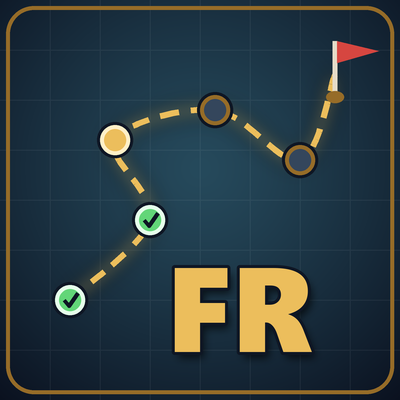
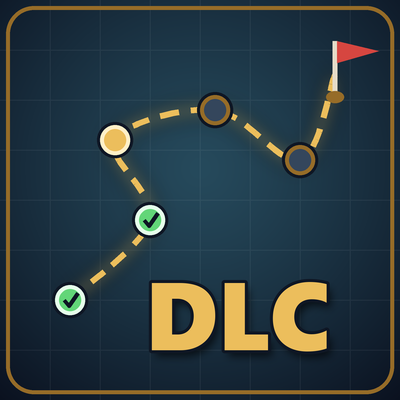
Rename to DLC - Dungeon Leveling Companion
"ForeverRoute" is already taken on CurseForge by a different addon, and
the shared folder/saved-variable names would clash. Renamed everything:

- Folder/TOC: DungeonLevelingCompanion; title "DLC - Dungeon Leveling
  Companion"; chat prefix and panel title "DLC".
- Slash commands: /dlc and /dungeonleveling (dropped /fr).
- Saved variables: DungeonLevelingCompanionDB (per character) and
  DungeonLevelingCompanionGlobalDB (account-wide); frame names to match.
- README, changelog, .pkgmeta, tests and the avatar ("DLC") updated.

Changed region(s): [[0.36, 0.66, 0.84, 0.9]]

diff --git a/tests/test_dlc.py b/tests/test_dlc.py
@@ -1,6 +1,6 @@
-"""ForeverRoute test suite: runs the addon in Lua 5.1 against a fake WoW API (secret auras in combat, quest log, achievements).
+"""DLC (Dungeon Leveling Companion) test suite: runs the addon in Lua 5.1 against a fake WoW API (secret auras in combat, quest log, achievements).
 
-Run from the addon folder:  python tests/test_forever_route.py   (needs: pip install lupa)
+Run from the addon folder:  python tests/test_dlc.py   (needs: pip install lupa)
 """
 import sys, pathlib
 from lupa.lua51 import LuaRuntime
@@ -14,7 +14,7 @@ XPT = { 400, 900, 1400, 2100, 2800, 3600, 4500, 5400, 6500, 7600, 8800, 10100, 1
 state = { level = 18, xp = 1000, rested = 0, now = 1000, t = 100000, inInstance = false, instName = nil, subzone = "",
           auras = { HELPFUL = {}, HARMFUL = {} }, combat = false, indoors = false, resting = false,
           warnings = {}, chat = {}, errors = {}, frames = {}, bag = nil, bagCdStart = 0 }
-local function secretCheck() if state.combat then error("GetAuraDataByIndex(): Auras cannot be accessed when secret while tainted by 'ForeverRoute'") end end
+local function secretCheck() if state.combat then error("GetAuraDataByIndex(): Auras cannot be accessed when secret while tainted by 'DungeonLevelingCompanion'") end end
 function GetTime() return state.now end
 function time() return state.t end
 function UnitLevel() return state.level end
@@ -131,12 +131,12 @@ end
 ns = lua.table()
 for fname in ["Data.lua", "Core.lua", "UI.lua", "Achievements.lua", "Quests.lua"]:
     code = (ADDON_DIR / fname).read_text(encoding="utf-8")
-    lua.eval(f"function(code) return assert(loadstring(code, '@{fname}')) end")(code)("ForeverRoute", ns)
+    lua.eval(f"function(code) return assert(loadstring(code, '@{fname}')) end")(code)("DungeonLevelingCompanion", ns)
 
 G = lua.globals()
 ns.alertLog = lua.table()
 run = lua.execute
-run('fire("ADDON_LOADED", "ForeverRoute"); fire("PLAYER_ENTERING_WORLD"); tick()')
+run('fire("ADDON_LOADED", "DungeonLevelingCompanion"); fire("PLAYER_ENTERING_WORLD"); tick()')
 
 def take(key):
     if key == "warnings":
@@ -184,20 +184,20 @@ run('state.combat = true; kill(100, 0); kill(200, 200); state.combat = false')  
 run('state.rested = state.rested + 900; fire("UPDATE_EXHAUSTION")')               # (tent-like rested gain) must not count
 run('kill(120, 120)')            # +120
 run('quest(1500)')               # quest XP inside -> excluded
-print("   run xp so far:", G.ForeverRouteDB.curRun.xp)
-check("run XP = kill XP minus rested minus quest", G.ForeverRouteDB.curRun.xp == 570, G.ForeverRouteDB.curRun.xp)
+print("   run xp so far:", G.DungeonLevelingCompanionDB.curRun.xp)
+check("run XP = kill XP minus rested minus quest", G.DungeonLevelingCompanionDB.curRun.xp == 570, G.DungeonLevelingCompanionDB.curRun.xp)
 
 # level-up in the middle of the run
 run('state.xp = XPT[state.level] - 100; fire("PLAYER_XP_UPDATE", "player")')   # simulate time passing outside tracking? no: counts
-before = G.ForeverRouteDB.curRun.xp
+before = G.DungeonLevelingCompanionDB.curRun.xp
 run('kill(400, 0)')
 lvl = G.state.level
-check("level-up mid-run counted correctly (+400)", G.ForeverRouteDB.curRun.xp - before == 400 and lvl == 19, (G.ForeverRouteDB.curRun.xp - before, lvl))
+check("level-up mid-run counted correctly (+400)", G.DungeonLevelingCompanionDB.curRun.xp - before == 400 and lvl == 19, (G.DungeonLevelingCompanionDB.curRun.xp - before, lvl))
 # level/XP updating out of order on level-up
-before = G.ForeverRouteDB.curRun.xp
+before = G.DungeonLevelingCompanionDB.curRun.xp
 run('state.xp = state.xp + 50; local oldlvl = state.level; fire("PLAYER_XP_UPDATE", "player")')
 run('state.xp = XPT[state.level] + 10 - 0')  # bogus intermediate not fired
-check("normal +50", G.ForeverRouteDB.curRun.xp - before == 50, G.ForeverRouteDB.curRun.xp - before)
+check("normal +50", G.DungeonLevelingCompanionDB.curRun.xp - before == 50, G.DungeonLevelingCompanionDB.curRun.xp - before)
 
 # leave + finish run -> logged
 run('state.xp = 100; fire("PLAYER_XP_UPDATE", "player")')
@@ -205,7 +205,7 @@ take("chat")
 run('state.t = state.t + 2400; state.inInstance = false; state.instName = nil; fire("ZONE_CHANGED_NEW_AREA"); state.t = state.t + 400; tick()')
 logged = take("chat")
 check("run logged on leaving", any("Logged The Deadmines run" in m for m in logged), logged[:1])
-print("   measured dm:", list(G.ForeverRouteDB.measured.dm.values()))
+print("   measured dm:", list(G.DungeonLevelingCompanionDB.measured.dm.values()))
 
 # --- 3. Warnings: outdoors / rest area / dungeon ---
 run('state.level = 22; state.xp = 0; state.rested = 0; state.auras.HARMFUL = {}; state.now = state.now + 500; state.resting = true; tick()')
@@ -221,7 +221,7 @@ w = take("warnings")
 check("food warning after combat once auras readable", any("Well Fed" in x for x in w), w)
 
 # --- 4. Achievements ---
-run('ForeverRouteDB.achIDs = nil'); ok = ns.ScanAchievements()
+run('DungeonLevelingCompanionDB.achIDs = nil'); ok = ns.ScanAchievements()
 check("achievements read", ok and ns.TierProgress("Novice")[0] == 6, ns.TierProgress("Novice"))
 run('state.combat = true; fire("CRITERIA_UPDATE"); tick(); tick()')
 check("achievement rescan deferred in combat, no errors", not take("errors"))
@@ -268,10 +268,10 @@ check("prereq chain part turned in -> dungeon quest still listed (final part not
 run('table.insert(state.questLog, { title = "The Defias Brotherhood", id = 166, complete = false })'); qlog()
 check("final part (166) picked up -> shown yellow (in log)", any("Defias Brotherhood" in l and "cffffff00" in l for l in panel_quests()))
 # quest finished before install: learned ID + flagged -> hidden on its own
-run('ForeverRouteDB.questIDs["collectingmemories"] = 168; state.flagged[168] = true'); qlog()
+run('DungeonLevelingCompanionDB.questIDs["collectingmemories"] = 168; state.flagged[168] = true'); qlog()
 check("flagged-completed (learned id) hidden", not any("Collecting Memories" in l for l in panel_quests()))
 # manual qdone
-run('SlashCmdList.FOREVERROUTE("qdone underground")'); take("chat")
+run('SlashCmdList.DUNGEONLEVELINGCOMPANION("qdone underground")'); take("chat")
 check("/fr qdone hides quest", not any("Underground Assault" in l for l in panel_quests()))
 # paladin-only quest
 run('state.level = 21'); 
@@ -282,12 +282,12 @@ run('state.class = "HUNTER"')
 # combat safety
 run('state.combat = true; fire("QUEST_LOG_UPDATE"); tick()'); ns.Refresh(); run('state.combat = false')
 check("no errors from quest tracking", not take("errors"))
-run('SlashCmdList.FOREVERROUTE("quests dm")'); print("\n".join(take("chat")))
+run('SlashCmdList.DUNGEONLEVELINGCOMPANION("quests dm")'); print("\n".join(take("chat")))
 print("\nFAILURES:", fails)
 
 # --- 7. Prerequisite steps + swap timing ---
-run('SlashCmdList.FOREVERROUTE("reset confirm"); state.questLog = {}; state.flagged = {}; ForeverRouteDB.questDone = {}; ForeverRouteDB.questIDs = {}')
-run('ForeverRouteDB.achDone = {}'); take("chat")
+run('SlashCmdList.DUNGEONLEVELINGCOMPANION("reset confirm"); state.questLog = {}; state.flagged = {}; DungeonLevelingCompanionDB.questDone = {}; DungeonLevelingCompanionDB.questIDs = {}')
+run('DungeonLevelingCompanionDB.achDone = {}'); take("chat")
 run('state.level = 15; state.xp = 0'); qlog()
 def panel(): ns.Refresh(); return G.state.lastText.split("\n")
 p = panel()
@@ -298,7 +298,7 @@ run('state.flagged[0] = false')
 run('state.questLog = { { title = "Old Ironforge Incursion", id = 9100, complete = false } }'); qlog()
 check("unlock in log -> Nip 'Em step done", not any("Nip 'Em in the Bud" in l for l in panel()))
 # level 16 in HoT leg: next = Deadmines prep should show (lvl >= 17-2)
-run('state.level = 16; state.xp = 0; ForeverRouteDB.runs.hot = 2'); qlog()
+run('state.level = 16; state.xp = 0; DungeonLevelingCompanionDB.runs.hot = 2'); qlog()
 p = panel(); print("\n".join(p[:12]))
 check("Prep for The Deadmines shown near swap", any("Prep for The Deadmines" in l for l in p))
 check("Defias chain step shows part 1/6", any("The Defias Brotherhood" in l and "1/6" not in l for l in p) or True)
@@ -319,14 +319,14 @@ run('for _, id in ipairs({135,141,142,155}) do state.flagged[id] = true end; sta
 p = panel()
 check("chain done -> DM prep disappears", not any("Prep for The Deadmines" in l and "Defias" in l for l in p) and not any("(part" in l for l in p))
 # Excavation: unlock by Horrors in the Highland in log completes 3 Rethiel steps
-run('state.level = 26; state.xp = 0; ForeverRouteDB.runs.rfk = 1; state.questLog = { { title = "Horrors in the Highland", id = 9200, complete = false } }'); qlog()
+run('state.level = 26; state.xp = 0; DungeonLevelingCompanionDB.runs.rfk = 1; state.questLog = { { title = "Horrors in the Highland", id = 9200, complete = false } }'); qlog()
 steps = [s.step.q for s in ns.PrepOpen(ns.BY_KEY.exc).values()]
 check("Excavation: Rethiel prereqs done when Horrors in the Highland is in log", steps == ["Young Crocolisk Skins"], steps)
 # manual qdone of a prep step
-run('SlashCmdList.FOREVERROUTE("qdone young croc")'); take("chat")
+run('SlashCmdList.DUNGEONLEVELINGCOMPANION("qdone young croc")'); take("chat")
 check("/fr qdone marks a prep step done", len(list(ns.PrepOpen(ns.BY_KEY.exc).values())) == 0)
 # /fr prep output
-run('SlashCmdList.FOREVERROUTE("prep st")'); out = take("chat"); print("\n".join(out[:4]))
+run('SlashCmdList.DUNGEONLEVELINGCOMPANION("prep st")'); out = take("chat"); print("\n".join(out[:4]))
 check("/fr prep lists steps", any("Sunken Temple prerequisites" in l for l in out))
 # optional steps excluded from XP
 xp_st, _ = ns.PrepLeft(ns.BY_KEY.st); xp_zf, _ = ns.PrepLeft(ns.BY_KEY.zf)
@@ -335,20 +335,20 @@ check("no errors", not take("errors"))
 print("\nFAILURES:", fails)
 
 # --- 8. Finished quests don't count toward run XP ---
-run('SlashCmdList.FOREVERROUTE("reset confirm"); state.questLog = {}; state.flagged = {}; ForeverRouteDB.questDone = {}; ForeverRouteDB.questIDs = {}'); take("chat")
+run('SlashCmdList.DUNGEONLEVELINGCOMPANION("reset confirm"); state.questLog = {}; state.flagged = {}; DungeonLevelingCompanionDB.questDone = {}; DungeonLevelingCompanionDB.questIDs = {}'); take("chat")
 run('state.level = 22; state.xp = 0'); qlog()
 bfd = ns.BY_KEY.bfd
 q_all = ns.QuestXP(bfd); n_all = ns.QuestsLeft(bfd)
 run('state.flagged[971] = true; state.flagged[1275] = true'); qlog()
 q_two = ns.QuestXP(bfd); n_two = ns.QuestsLeft(bfd)
 check("2 of 4 BFD quests done -> half the quest XP", n_all == 4 and n_two == 2 and abs(q_two - q_all / 2) < 1, (n_all, n_two, q_all, q_two))
-run('SlashCmdList.FOREVERROUTE("qdone twilight falls"); SlashCmdList.FOREVERROUTE("qdone villainy")'); take("chat")
+run('SlashCmdList.DUNGEONLEVELINGCOMPANION("qdone twilight falls"); SlashCmdList.DUNGEONLEVELINGCOMPANION("qdone villainy")'); take("chat")
 check("all quests done -> 0 quest XP", ns.QuestXP(bfd) == 0 and ns.QuestsLeft(bfd) == 0, ns.QuestXP(bfd))
-run('ForeverRouteDB.runs.bfd = 1; state.flagged[1199] = nil'); run('ForeverRouteDB.questDone["twilightfalls"] = nil'); qlog()
+run('DungeonLevelingCompanionDB.runs.bfd = 1; state.flagged[1199] = nil'); run('DungeonLevelingCompanionDB.questDone["twilightfalls"] = nil'); qlog()
 check("quest left after first run still counts on the next run", ns.QuestsLeft(bfd) == 1 and ns.QuestXP(bfd) > 0)
 
 # --- 9. Horde route ---
-run('state.faction = "Horde"; SlashCmdList.FOREVERROUTE("faction auto")'); out = take("chat")
+run('state.faction = "Horde"; SlashCmdList.DUNGEONLEVELINGCOMPANION("faction auto")'); out = take("chat")
 check("faction auto -> Horde route", any("Horde route" in l for l in out), out)
 keys = [d.key for d in ns.ROUTE.values()]
 check("Horde route starts RFC, Ruins, WC; no HoT/Stockade", keys[:3] == ["rfc", "rol", "wc"] and "hot" not in keys and "stocks" not in keys, keys[:6])
@@ -363,18 +363,18 @@ check("Horde WC prereqs include The Forgotten Pools chain", d.key == "wc" and "T
 run('state.questLog = { { title = "Leaders of the Fang", id = 1, complete = false } }'); qlog()
 steps = [s.step.q for s in ns.PrepOpen(ns.BY_KEY.wc).values()]
 check("Leaders of the Fang in log -> Forgotten Pools chain done", steps == ["Raptor Horns"], steps)
-run('ForeverRouteDB.achIDs = nil'); ns.ScanAchievements()
-check("achievement 'RFC or Hall of Thanes' maps to rfc for Horde", G.ForeverRouteDB.achDone.rfc == True, list(G.ForeverRouteDB.achDone.keys()))
+run('DungeonLevelingCompanionDB.achIDs = nil'); ns.ScanAchievements()
+check("achievement 'RFC or Hall of Thanes' maps to rfc for Horde", G.DungeonLevelingCompanionDB.achDone.rfc == True, list(G.DungeonLevelingCompanionDB.achDone.keys()))
 check("Horde Novice 6/6 from achievement", ns.TierProgress("Novice")[0] == 6, ns.TierProgress("Novice"))
-run('SlashCmdList.FOREVERROUTE("route")'); out = take("chat"); print("\n".join(out[:5]))
-run('state.faction = "Alliance"; SlashCmdList.FOREVERROUTE("faction auto")'); take("chat")
+run('SlashCmdList.DUNGEONLEVELINGCOMPANION("route")'); out = take("chat"); print("\n".join(out[:5]))
+run('state.faction = "Alliance"; SlashCmdList.DUNGEONLEVELINGCOMPANION("faction auto")'); take("chat")
 check("back to Alliance route", ns.ROUTE[1].key == "hot")
 check("no errors", not take("errors"))
 print("\nFAILURES:", fails)
 
 # --- 10. Same-name chain without IDs (Horde Hidden Enemies) ---
-run('state.faction = "Horde"; SlashCmdList.FOREVERROUTE("faction auto"); SlashCmdList.FOREVERROUTE("reset confirm")'); take("chat")
-run('state.questLog = {}; state.flagged = {}; ForeverRouteDB.questDone = {}; ForeverRouteDB.turnedIn = {}; ForeverRouteDB.idKey = {}; ForeverRouteDB.achDone = {}')
+run('state.faction = "Horde"; SlashCmdList.DUNGEONLEVELINGCOMPANION("faction auto"); SlashCmdList.DUNGEONLEVELINGCOMPANION("reset confirm")'); take("chat")
+run('state.questLog = {}; state.flagged = {}; DungeonLevelingCompanionDB.questDone = {}; DungeonLevelingCompanionDB.turnedIn = {}; DungeonLevelingCompanionDB.idKey = {}; DungeonLevelingCompanionDB.achDone = {}')
 run('state.level = 13; state.xp = 0'); qlog()
 def rfc_steps(): return [(s.step.part, s.status) for s in ns.PrepSteps(ns.BY_KEY.rfc).values()]
 check("Hidden Enemies: both parts to do", rfc_steps() == [(1, "todo"), (2, "todo")], rfc_steps())
@@ -392,7 +392,7 @@ run('state.questLog = { { title = "Hidden Enemies", id = 5728, complete = false 
 check("RFC part in log shown as dungeon quest (yellow)", any(q.name == "Hidden Enemies" and q.inLog for q in ns.DungeonQuests(ns.BY_KEY.rfc).values()))
 run('state.questLog = {}; fire("QUEST_TURNED_IN", 5728, 900, 0)'); qlog()
 check("after the RFC part, dungeon quest finished", not any(q.name == "Hidden Enemies" for q in ns.DungeonQuests(ns.BY_KEY.rfc).values()))
-run('state.faction = "Alliance"; SlashCmdList.FOREVERROUTE("faction auto")'); take("chat")
+run('state.faction = "Alliance"; SlashCmdList.DUNGEONLEVELINGCOMPANION("faction auto")'); take("chat")
 check("no errors", not take("errors"))
 print("\nFAILURES:", fails)
 
@@ -410,14 +410,14 @@ run('fire("UNIT_AURA", "player"); state.now = state.now + 0.5'); ns.Refresh()
 check("player UNIT_AURA -> one rescan", G.state.scans > 0)
 fs = ns.FoodStatus(); fs = fs if isinstance(fs, str) else fs[0]
 check("food still detected (only Well Fed tooltip read)", fs == "xp", fs)
-run('SlashCmdList.FOREVERROUTE("perf")'); out = take("chat"); print("\n".join(out))
+run('SlashCmdList.DUNGEONLEVELINGCOMPANION("perf")'); out = take("chat"); print("\n".join(out))
 check("/fr perf reports", any("ms each" in l for l in out))
 check("no errors", not take("errors"))
 print("\nFAILURES:", fails)
 
 # --- 12. Taint safety: no Blizzard raid-warning frame, no alerts at low level / in cinematics ---
 run('state.raidNoticeCalls = 0; RaidNotice_AddMessage = function() state.raidNoticeCalls = state.raidNoticeCalls + 1 end')
-run('SlashCmdList.FOREVERROUTE("set food on"); SlashCmdList.FOREVERROUTE("set tentwarn on")'); take("chat")
+run('SlashCmdList.DUNGEONLEVELINGCOMPANION("set food on"); SlashCmdList.DUNGEONLEVELINGCOMPANION("set tentwarn on")'); take("chat")
 run('state.auras.HELPFUL = {}; state.auras.HARMFUL = {}; state.rested = 0; state.indoors = false; state.resting = false; state.combat = false')
 run('state.level = 1; state.xp = 0; state.now = state.now + 1000; tick()')
 check("level 1: no alerts", not take("warnings"))
@@ -429,10 +429,10 @@ run('state.uiVisible = true; state.now = state.now + 1000; tick()')
 w = take("warnings")
 check("level 20, normal UI: alerts fire", any("Well Fed" in x for x in w), w)
 check("Blizzard RaidNotice_AddMessage never called", G.state.raidNoticeCalls == 0, G.state.raidNoticeCalls)
-run('SlashCmdList.FOREVERROUTE("set minlevel 25")'); take("chat")
+run('SlashCmdList.DUNGEONLEVELINGCOMPANION("set minlevel 25")'); take("chat")
 run('state.now = state.now + 1000; tick()')
 check("/fr set minlevel 25 -> no alerts at 20", not take("warnings"))
-run('SlashCmdList.FOREVERROUTE("set minlevel 10")'); take("chat")
+run('SlashCmdList.DUNGEONLEVELINGCOMPANION("set minlevel 10")'); take("chat")
 # data-only tooltip API path
 run('state.tipFrames = 0; local cf = CreateFrame; CreateFrame = function(kind, ...) if kind == "GameTooltip" then state.tipFrames = state.tipFrames + 1 end return cf(kind, ...) end')
 run('C_TooltipInfo = { GetUnitAura = function(unit, i, filter) local a = state.auras[filter][i] return a and { lines = { { leftText = a.name }, { leftText = a.tip } } } end }')
@@ -445,18 +445,18 @@ check("no errors", not take("errors"))
 print("\nFAILURES:", fails)
 
 # --- 13. Account-wide alert start level (default 4) ---
-run('ForeverRouteGlobalDB = nil; ns_init = 1'); ns.InitDB(); take("chat")
-check("default alert start level is 6", G.ForeverRouteGlobalDB.warnMinLevel == 6, G.ForeverRouteGlobalDB.warnMinLevel)
+run('DungeonLevelingCompanionGlobalDB = nil; ns_init = 1'); ns.InitDB(); take("chat")
+check("default alert start level is 6", G.DungeonLevelingCompanionGlobalDB.warnMinLevel == 6, G.DungeonLevelingCompanionGlobalDB.warnMinLevel)
 run('state.auras.HELPFUL = {}; state.auras.HARMFUL = {}; state.combat = false; state.level = 5; state.now = state.now + 1000; tick()')
 check("level 5: no alerts", not take("warnings"))
 run('state.level = 6; state.now = state.now + 1000; tick()')
 check("level 6: alerts start", len(take("warnings")) > 0)
-run('SlashCmdList.FOREVERROUTE("set minlevel 8")'); out = take("chat")
+run('SlashCmdList.DUNGEONLEVELINGCOMPANION("set minlevel 8")'); out = take("chat")
 check("/fr set minlevel says all characters", any("all your characters" in l for l in out), out)
 # "log in" a different character: per-character data is new, account-wide setting stays
-run('ForeverRouteDB = nil'); ns.InitDB()
-check("new character keeps account-wide minlevel 8", G.ForeverRouteGlobalDB.warnMinLevel == 8 and G.ForeverRouteDB.runs is not None and len(list(G.ForeverRouteDB.runs.keys())) == 0)
-check("per-character settings don't carry warnMinLevel", G.ForeverRouteDB.settings.warnMinLevel is None)
+run('DungeonLevelingCompanionDB = nil'); ns.InitDB()
+check("new character keeps account-wide minlevel 8", G.DungeonLevelingCompanionGlobalDB.warnMinLevel == 8 and G.DungeonLevelingCompanionDB.runs is not None and len(list(G.DungeonLevelingCompanionDB.runs.keys())) == 0)
+check("per-character settings don't carry warnMinLevel", G.DungeonLevelingCompanionDB.settings.warnMinLevel is None)
 run('state.level = 6; state.now = state.now + 1000; tick()')
 check("level 6 with minlevel 8: no alerts", not take("warnings"))
 check("no errors", not take("errors"))

diff --git a/media/make_avatar.py b/media/make_avatar.py
@@ -1,7 +1,7 @@
-"""Draws the ForeverRoute CurseForge avatar (400x400 PNG, original art).
+"""Draws the DLC (Dungeon Leveling Companion) CurseForge avatar (400x400 PNG, original art).
 
 A winding dashed route through dungeon stops on a dark map background, ending at a flag,
-with "FR" below. Rendered at 4x and scaled down for smooth edges.
+with "DLC" below. Rendered at 4x and scaled down for smooth edges.
 
     python media/make_avatar.py        (needs: pip install pillow)
 """
@@ -107,12 +107,12 @@ d.line([(fx, fy + 22 * S), (fx, fy - 34 * S)], fill=(230, 220, 200), width=5 * S
 d.polygon([(fx + 2 * S, fy - 34 * S), (fx + 44 * S, fy - 24 * S), (fx + 2 * S, fy - 12 * S)], fill=(214, 70, 64))
 d.ellipse([fx - 9 * S, fy + 16 * S, fx + 9 * S, fy + 28 * S], fill=GOLD_DARK)
 
-# "FR" monogram.
-font = ImageFont.truetype(r"C:\Windows\Fonts\seguibl.ttf", 120 * S)
-text = "FR"
+# "DLC" monogram.
+font = ImageFont.truetype(r"C:\Windows\Fonts\seguibl.ttf", 96 * S)
+text = "DLC"
 bbox = d.textbbox((0, 0), text, font=font)
 tw, th = bbox[2] - bbox[0], bbox[3] - bbox[1]
-tx, ty = (W - tw) // 2 - bbox[0] + 40 * S, 268 * S - bbox[1]
+tx, ty = (W - tw) // 2 - bbox[0] + 38 * S, 282 * S - bbox[1]
 shadow = Image.new("RGBA", (W, W), (0, 0, 0, 0))
 ImageDraw.Draw(shadow).text((tx + 4 * S, ty + 6 * S), text, font=font, fill=(0, 0, 0, 170))
 img = Image.alpha_composite(img, shadow.filter(ImageFilter.GaussianBlur(4 * S)))

diff --git a/README.md b/README.md
@@ -1,8 +1,8 @@
-# ForeverRoute – Dungeon Leveling Companion for WoW Forever
+# DLC – Dungeon Leveling Companion
 
-**Level 14–60 through dungeons, with a plan.** ForeverRoute tells your group which dungeon to run at your level, how many more runs until you swap, which quests and prerequisite chains to grab first, and reminds you to keep your XP buffs up.
+**Level 14–60 through dungeons, with a plan.** DLC tells your group which dungeon to run at your level, how many more runs until you swap, which quests and prerequisite chains to grab first, and reminds you to keep your XP buffs up.
 
-Built for WoW Forever's dungeon-leveling meta: the new Forever dungeons, the Spelunker achievements, cooked-food XP, Leatherworking camp tents and the Cozy Sleeping Bag.
+Built for **WoW Forever**'s dungeon-leveling meta: the new Forever dungeons, the Spelunker achievements, cooked-food XP, Leatherworking camp tents and the Cozy Sleeping Bag.
 
 ---
 
@@ -33,7 +33,7 @@ Built for WoW Forever's dungeon-leveling meta: the new Forever dungeons, the Spe
 - **Food:** warns when your Well Fed XP buff is missing, about to expire, or from food without the XP bonus.
 - **Camp tent:** warns when the Boosted Rest cooldown is over — only when you can actually camp (outdoors, outside dungeons, cities and inns) and right after you leave a dungeon.
 - **Cozy Sleeping Bag:** warns when Well-Rested is gone and the bag is off cooldown.
-- No alerts in combat, during cinematics, or below level 6 (configurable once for your whole account with `/fr set minlevel`).
+- No alerts in combat, during cinematics, or below level 6 (configurable once for your whole account with `/dlc set minlevel`).
 
 ---
 
@@ -41,21 +41,21 @@ Built for WoW Forever's dungeon-leveling meta: the new Forever dungeons, the Spe
 
 | Command | What it does |
 |---|---|
-| `/fr` | Show/hide the panel |
-| `/fr route` | Full route with runs done |
-| `/fr quests [dungeon]` | Quests for the current (or named) dungeon |
-| `/fr prep [dungeon]` | Prerequisite quest steps, with what to do |
-| `/fr qdone <quest>` / `/fr qundo <quest>` | Mark a quest or step finished (or not) by hand |
-| `/fr run <dungeon>` / `/fr xp <dungeon> <amount>` | Log a run by hand |
-| `/fr undo` | Remove the last logged run |
-| `/fr ach` | What was read from the Spelunker achievements |
-| `/fr set food\|tentwarn\|tent\|bag on\|off` | Turn alerts / tent estimates on or off |
-| `/fr set calib <n\|auto>` | Force an XP calibration factor |
-| `/fr set minlevel <level>` | Level the alerts start at (default 6; applies to all your characters) |
-| `/fr faction horde\|alliance\|auto` | Pick the route |
-| `/fr lock` / `/fr unlock` | Lock the panel position |
-| `/fr perf` | How much time/memory the addon uses |
-| `/fr help` | All commands |
+| `/dlc` | Show/hide the panel |
+| `/dlc route` | Full route with runs done |
+| `/dlc quests [dungeon]` | Quests for the current (or named) dungeon |
+| `/dlc prep [dungeon]` | Prerequisite quest steps, with what to do |
+| `/dlc qdone <quest>` / `/dlc qundo <quest>` | Mark a quest or step finished (or not) by hand |
+| `/dlc run <dungeon>` / `/dlc xp <dungeon> <amount>` | Log a run by hand |
+| `/dlc undo` | Remove the last logged run |
+| `/dlc ach` | What was read from the Spelunker achievements |
+| `/dlc set food\|tentwarn\|tent\|bag on\|off` | Turn alerts / tent estimates on or off |
+| `/dlc set calib <n\|auto>` | Force an XP calibration factor |
+| `/dlc set minlevel <level>` | Level the alerts start at (default 6; applies to all your characters) |
+| `/dlc faction horde\|alliance\|auto` | Pick the route |
+| `/dlc lock` / `/dlc unlock` | Lock the panel position |
+| `/dlc perf` | How much time/memory the addon uses |
+| `/dlc help` | All commands |
 
 Dungeon keys for commands: `hot rfc dm wc rol sfk bfd stocks rfk exc gnomer smgy dal smlib drowned smarm smcath rfd ulda krol zf mara alcaz st brd blackmaw lbrs dme shaper ubrs dmw dmn stratlive stratud scholo` — or type part of the name.
 
@@ -65,7 +65,7 @@ Dungeon keys for commands: `hot rfc dm wc rol sfk bfd stocks rfk exc gnomer smgy
 
 - **Estimates, not promises.** XP per run starts from a formula (elite counts per clear, 5-man XP share) and gets accurate once you've logged a run or two. New-dungeon numbers are guesses until then.
 - **English client only** for now (buff, instance and achievement names are matched in English).
-- Quest data comes from Wowhead's Classic dungeon quest guide plus Forever beta guides. If a quest never updates, tell me its exact in-game name — `/fr qdone` hides it meanwhile.
+- Quest data comes from Wowhead's Classic dungeon quest guide plus Forever beta guides. If a quest never updates, tell me its exact in-game name — `/dlc qdone` hides it meanwhile.
 - Progress is saved per character.
 - Lightweight: the panel only redraws when something changes (plus every 5s for timers), buffs are read only when they change, and nothing is read in combat.
 

diff --git a/CHANGELOG.md b/CHANGELOG.md
@@ -1,4 +1,4 @@
-# ForeverRoute Changelog
+# DLC – Dungeon Leveling Companion Changelog
 
 ## 1.0.0 – First release
 
@@ -10,4 +10,4 @@
 - Spelunker achievement progress read from the achievement system.
 - Alerts for Well Fed (XP food), Leatherworking camp tent cooldown (outdoors only, not in cities/inns/dungeons) and the Cozy Sleeping Bag.
 - Combat-safe: no buff reads in combat, no alerts in combat or cinematics.
-- Alerts use their own on-screen text (no Blizzard raid-warning frame, avoids UI taint) and start at level 6 by default; `/fr set minlevel` sets it account-wide.
+- Alerts use their own on-screen text (no Blizzard raid-warning frame, avoids UI taint) and start at level 6 by default; `/dlc set minlevel` sets it account-wide.
